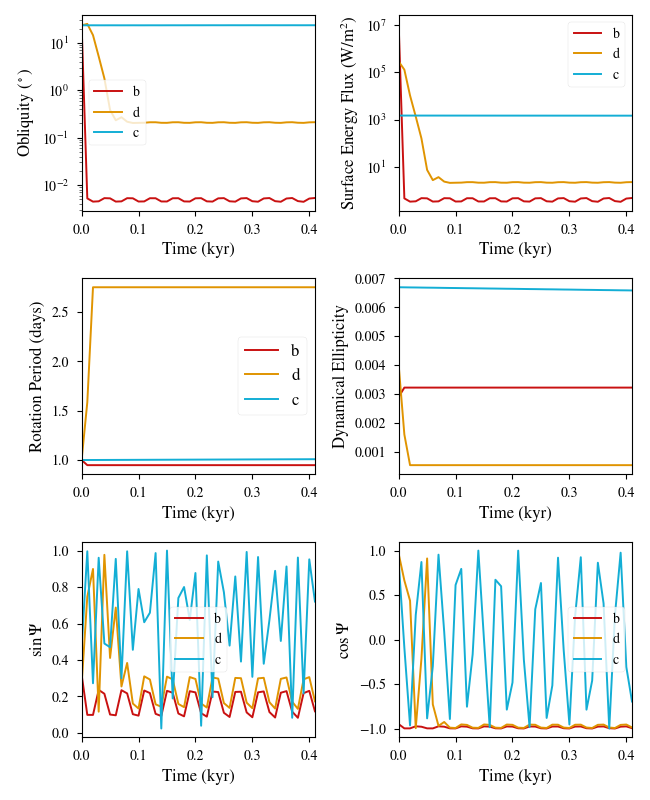
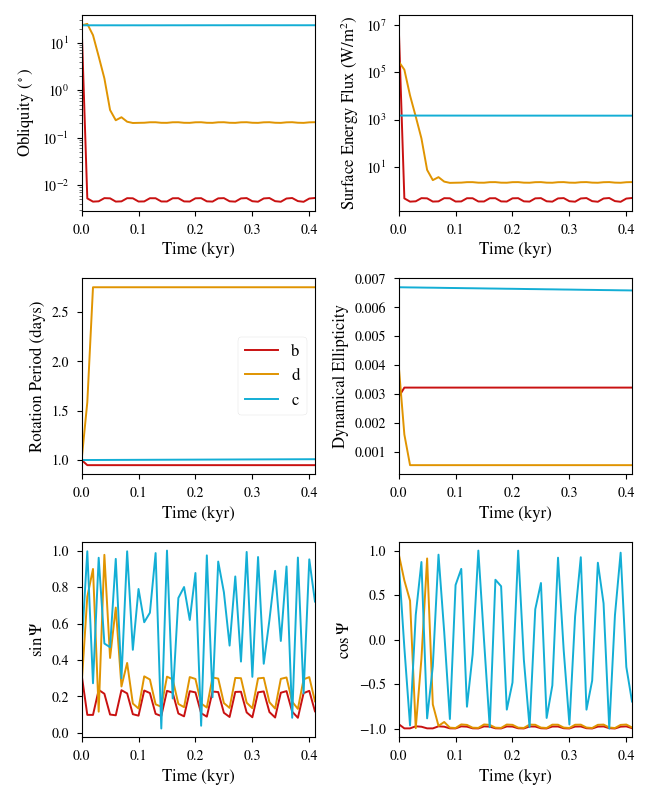
Removed legends from panels. Thanks, Nathaniel!

diff --git a/Rotation/BestFit/BarnesRory/makeplot.py b/Rotation/BestFit/BarnesRory/makeplot.py
@@ -23,6 +23,7 @@ plt.plot(time, out.d.Obliquity, color=vplot.colors.orange)
 plt.plot(time, out.c.Obliquity, color=vplot.colors.pale_blue)
 plt.yscale('log')
 plt.xlabel("Time (kyr)")
+plt.legend().set_visible(False)
 plt.ylabel(r"Obliquity ($^\circ$)")
 
 plt.subplot(3, 2, 2)
@@ -31,6 +32,7 @@ plt.plot(time, out.d.SurfEnFluxTotal, color=vplot.colors.orange)
 plt.plot(time, out.c.SurfEnFluxTotal, color=vplot.colors.pale_blue)
 plt.yscale('log')
 plt.xlabel("Time (kyr)")
+plt.legend().set_visible(False)
 plt.ylabel(r"Surface Energy Flux (W/m$^2$)")
 
 plt.subplot(3, 2, 3)
@@ -53,6 +55,7 @@ plt.subplot(3, 2, 5)
 plt.plot(time, out.b.CassiniOne, color=vplot.colors.red)
 plt.plot(time, out.d.CassiniOne, color=vplot.colors.orange)
 plt.plot(time, out.c.CassiniOne, color=vplot.colors.pale_blue)
+plt.legend().set_visible(False)
 plt.xlabel("Time (kyr)")
 plt.ylabel("$\sin{\Psi}$")
 
@@ -61,6 +64,7 @@ plt.plot(time, out.b.CassiniTwo, color=vplot.colors.red)
 plt.plot(time, out.d.CassiniTwo, color=vplot.colors.orange)
 plt.plot(time, out.c.CassiniTwo, color=vplot.colors.pale_blue)
 plt.xlabel("Time (kyr)")
+plt.legend().set_visible(False)
 plt.ylabel("$\cos{\Psi}$")
 
 # Save the figure
